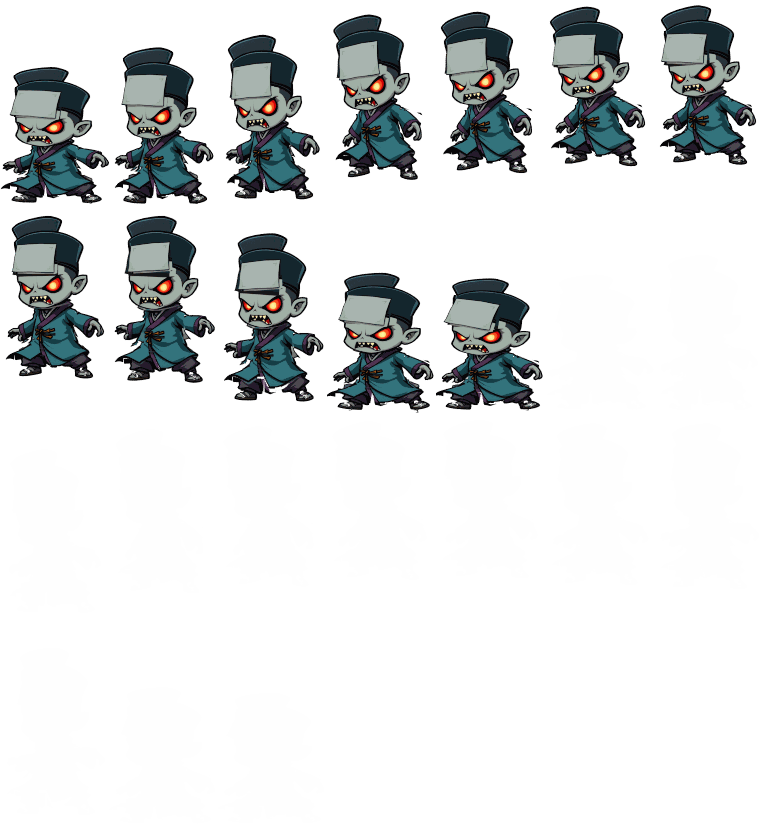
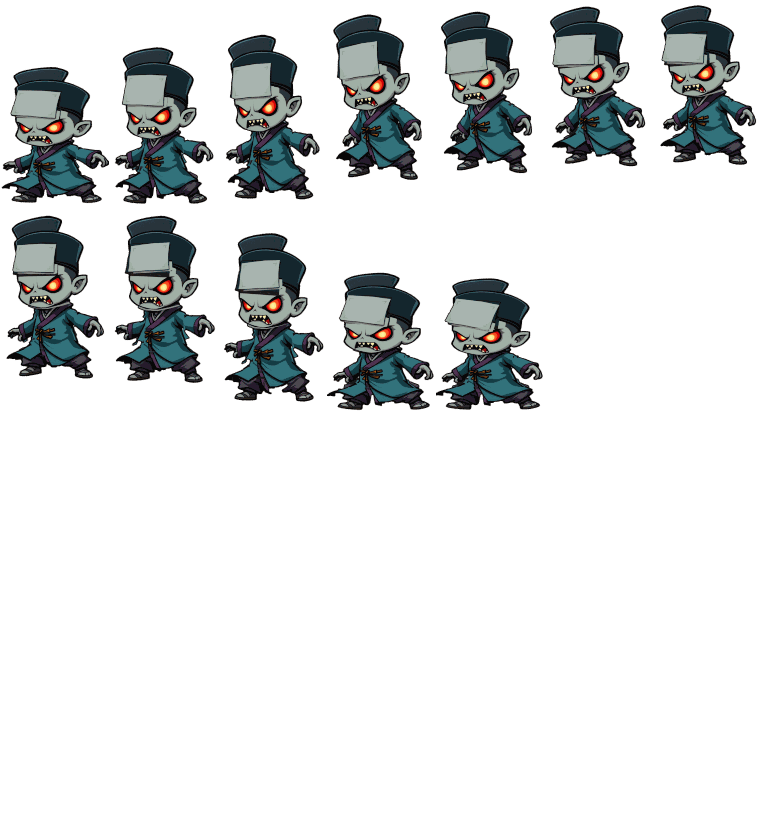
Jiangshi rig: clean silhouette - flat hidden fills, spikes cut, outline redrawn
Hidden areas take the part's commonest nearby paint instead of a smeared inpaint,
crumbs go to the part they touch and holes inside a part are filled, and each posed
frame is opened, closed and outlined again so a turned cut edge reads as an edge.

Changed region(s): [[0.3316, 0.4529, 0.3617, 0.4831]]

diff --git a/tools/mob_rig.py b/tools/mob_rig.py
@@ -17,6 +17,10 @@ sheet, so the game draws them as before.
        "pivot": [x, y]}
     ],
     "seal": 4,                        # optional: outline gaps up to twice this many px are closed
+    "crumb": 400,                     # optional: bits of a part smaller than this (px) go to the
+                                      #   part they touch most
+    "clean": 4,                       # optional: spikes thinner than twice this (px) are cut
+                                      #   off each posed frame before it is outlined again
     "claim": ["head", ...],           # optional: who takes contested pixels first (default:
                                       #   front to back)
     "bones": {"body": {"pivot": [x, y], "parent": "root"}},  # optional joints with no picture
@@ -47,7 +51,6 @@ def cut_parts(path, rig, holes=()):
     outside = np.pad((closed == 0).astype(np.uint8), 1, constant_values=1)
     cv2.floodFill(outside, None, (0, 0), 2)
     fg[outside[1:-1, 1:-1] != 2] = 255
-    soft = cv2.GaussianBlur(fg.astype(np.float32) / 255, (0, 0), 0.6)  # cutout.py's feather
     rgb = np.array(src)
     hsv = cv2.cvtColor(rgb, cv2.COLOR_RGB2HSV)
     parts = rig["parts"]
@@ -70,6 +73,12 @@ def cut_parts(path, rig, holes=()):
     for p in parts:
         if p.get("rest"):
             owned[p["name"]] = (fg > 0) & ~taken
+    owned = _tidy(owned, rig.get("crumb", 400))
+    union = np.zeros(fg.shape, bool)
+    for m in owned.values():
+        union |= m
+    fg = union.astype(np.uint8) * 255
+    soft = cv2.GaussianBlur(fg.astype(np.float32) / 255, (0, 0), 0.6)  # cutout.py's feather
     images = {}
     for p in parts:
         own = owned[p["name"]]
@@ -78,9 +87,11 @@ def cut_parts(path, rig, holes=()):
         out = rgb.copy()
         if hidden.any():
             # paint from the part's own colours only, not its outline or the neighbours
+            # one flat colour, the part's commonest paint next to it: an inpaint smears the
+            # shading and the neighbours' greys into a blur no sticker has
             known = own & (hsv[..., 2] >= DARK)
-            painted = cv2.inpaint(rgb, (~known).astype(np.uint8) * 255, 7, cv2.INPAINT_TELEA)
-            out[hidden] = painted[hidden]
+            near = known & (cv2.dilate(hidden.astype(np.uint8), disc(40)) > 0)
+            out[hidden] = _commonest(rgb[near if near.sum() > 50 else known])
             for h in entries:
                 if "fill" in h:
                     out[hidden & (np.array(poly_mask(src.size, [h["poly"]])) > 0)] = h["fill"]
@@ -91,6 +102,61 @@ def cut_parts(path, rig, holes=()):
         a = np.dstack([out.astype(np.float32) / 255 * alpha[..., None], alpha])
         images[p["name"]] = a
     return images, box[:2]
+
+
+def _commonest(px):
+    """The most common colour among these pixels, binned to 8 levels a channel."""
+    q = (px // 32).astype(np.int32)
+    keys = q[:, 0] * 64 + q[:, 1] * 8 + q[:, 2]
+    top = np.bincount(keys).argmax()
+    return np.median(px[keys == top], axis=0).astype(np.uint8)
+
+
+def _clean(frame, r=4):
+    """The posed figure's silhouette without the spikes and crumbs a cut edge leaves when its
+    part turns, closed where parts parted, and outlined again all round: a cut edge turned out
+    has no outline of its own."""
+    solid = (frame[..., 3] > 0.5).astype(np.uint8)
+    kept = cv2.morphologyEx(solid, cv2.MORPH_OPEN, disc(r))
+    kept = cv2.morphologyEx(kept, cv2.MORPH_CLOSE, disc(r))
+    outside = np.pad(1 - kept, 1, constant_values=1)
+    cv2.floodFill(outside, None, (0, 0), 2)
+    kept = (outside[1:-1, 1:-1] != 2).astype(np.uint8)
+    soft = cv2.GaussianBlur(kept.astype(np.float32), (0, 0), 0.8)
+    ink = np.array(OUTLINE_RGB, np.float32) / 255
+    ring = (kept > 0) & (cv2.erode(kept, disc(OUTLINE // 2 + 1)) == 0)
+    straight = frame[..., :3] / np.maximum(frame[..., 3:], 1e-4)
+    straight[ring | ((kept > 0) & (frame[..., 3] < 0.5))] = ink
+    return np.dstack([straight * soft[..., None], soft]).astype(np.float32)
+
+
+def _tidy(owned, crumb):
+    """Crumbs a part's polygon cut off from the rest of it (a dash of outline, a sliver of the
+    neighbour's paint) go to the part they touch most, and holes inside a part are its own: a
+    crumb would fly off on its own and a hole would show the ground through it."""
+    names = list(owned)
+    for _ in range(2):
+        for name in names:
+            n, lab, stats, _c = cv2.connectedComponentsWithStats(owned[name].astype(np.uint8), connectivity=8)
+            for k in range(1, n):
+                if stats[k, cv2.CC_STAT_AREA] >= crumb:
+                    continue
+                bit = lab == k
+                ring = (cv2.dilate(bit.astype(np.uint8), disc(3)) > 0) & ~bit
+                best = max((o for o in names if o != name), key=lambda o: int((owned[o] & ring).sum()))
+                if (owned[best] & ring).any():
+                    owned[name] = owned[name] & ~bit
+                    owned[best] = owned[best] | bit
+    for name in names:
+        m = owned[name].astype(np.uint8)
+        outside = np.pad(1 - m, 1, constant_values=1)
+        cv2.floodFill(outside, None, (0, 0), 2)
+        hole = (outside[1:-1, 1:-1] != 2) & ~owned[name]
+        for o in names:
+            if o != name:
+                hole &= ~owned[o]
+        owned[name] = owned[name] | hole
+    return owned
 
 
 def matrix(rot, dx, dy, sx, sy, pivot):
@@ -135,7 +201,7 @@ def rig_frames(spec, path, value, pads, size, count):
             layer = cv2.warpAffine(images[p["name"]], m[:2], (W, H), flags=cv2.INTER_LINEAR,
                                    borderMode=cv2.BORDER_CONSTANT, borderValue=0)
             frame = layer + frame * (1 - layer[:, :, 3:])
-        frames.append(frame)
+        frames.append(_clean(frame, rig.get("clean", 4)))
     return frames
 
 
